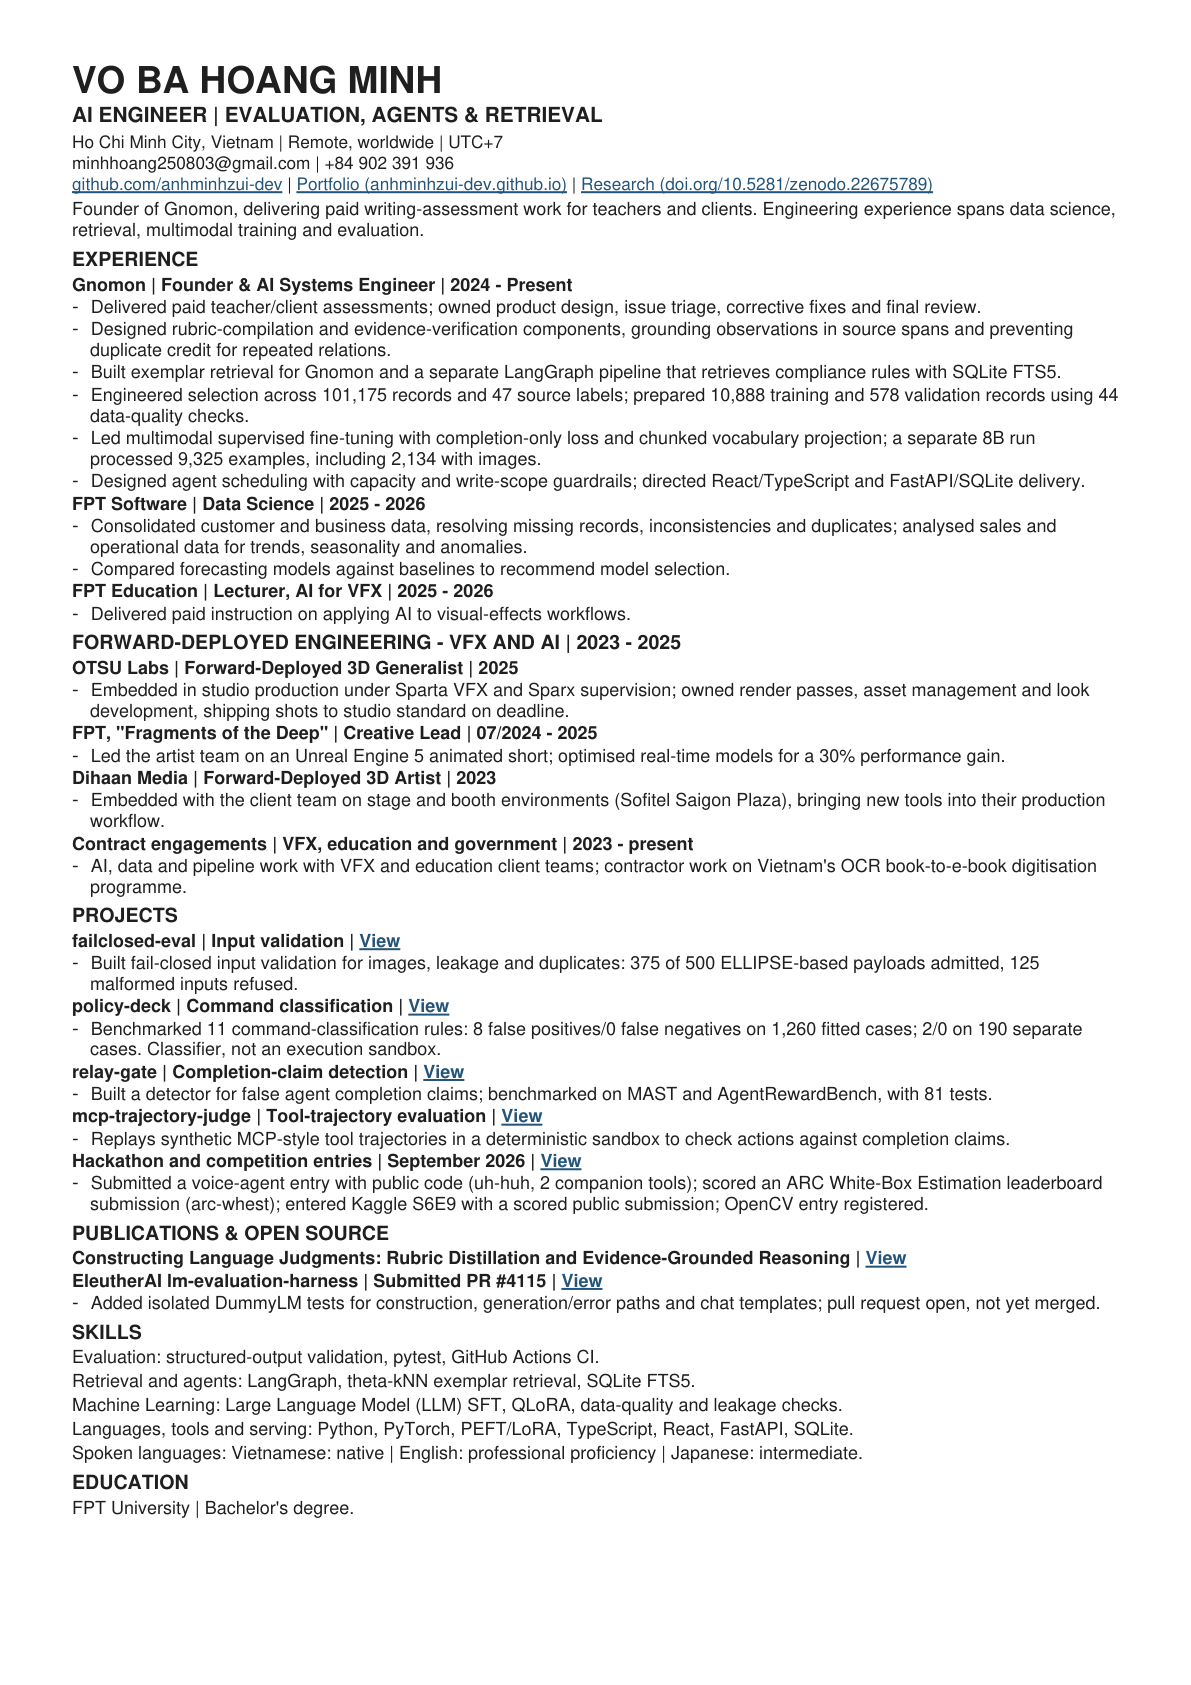
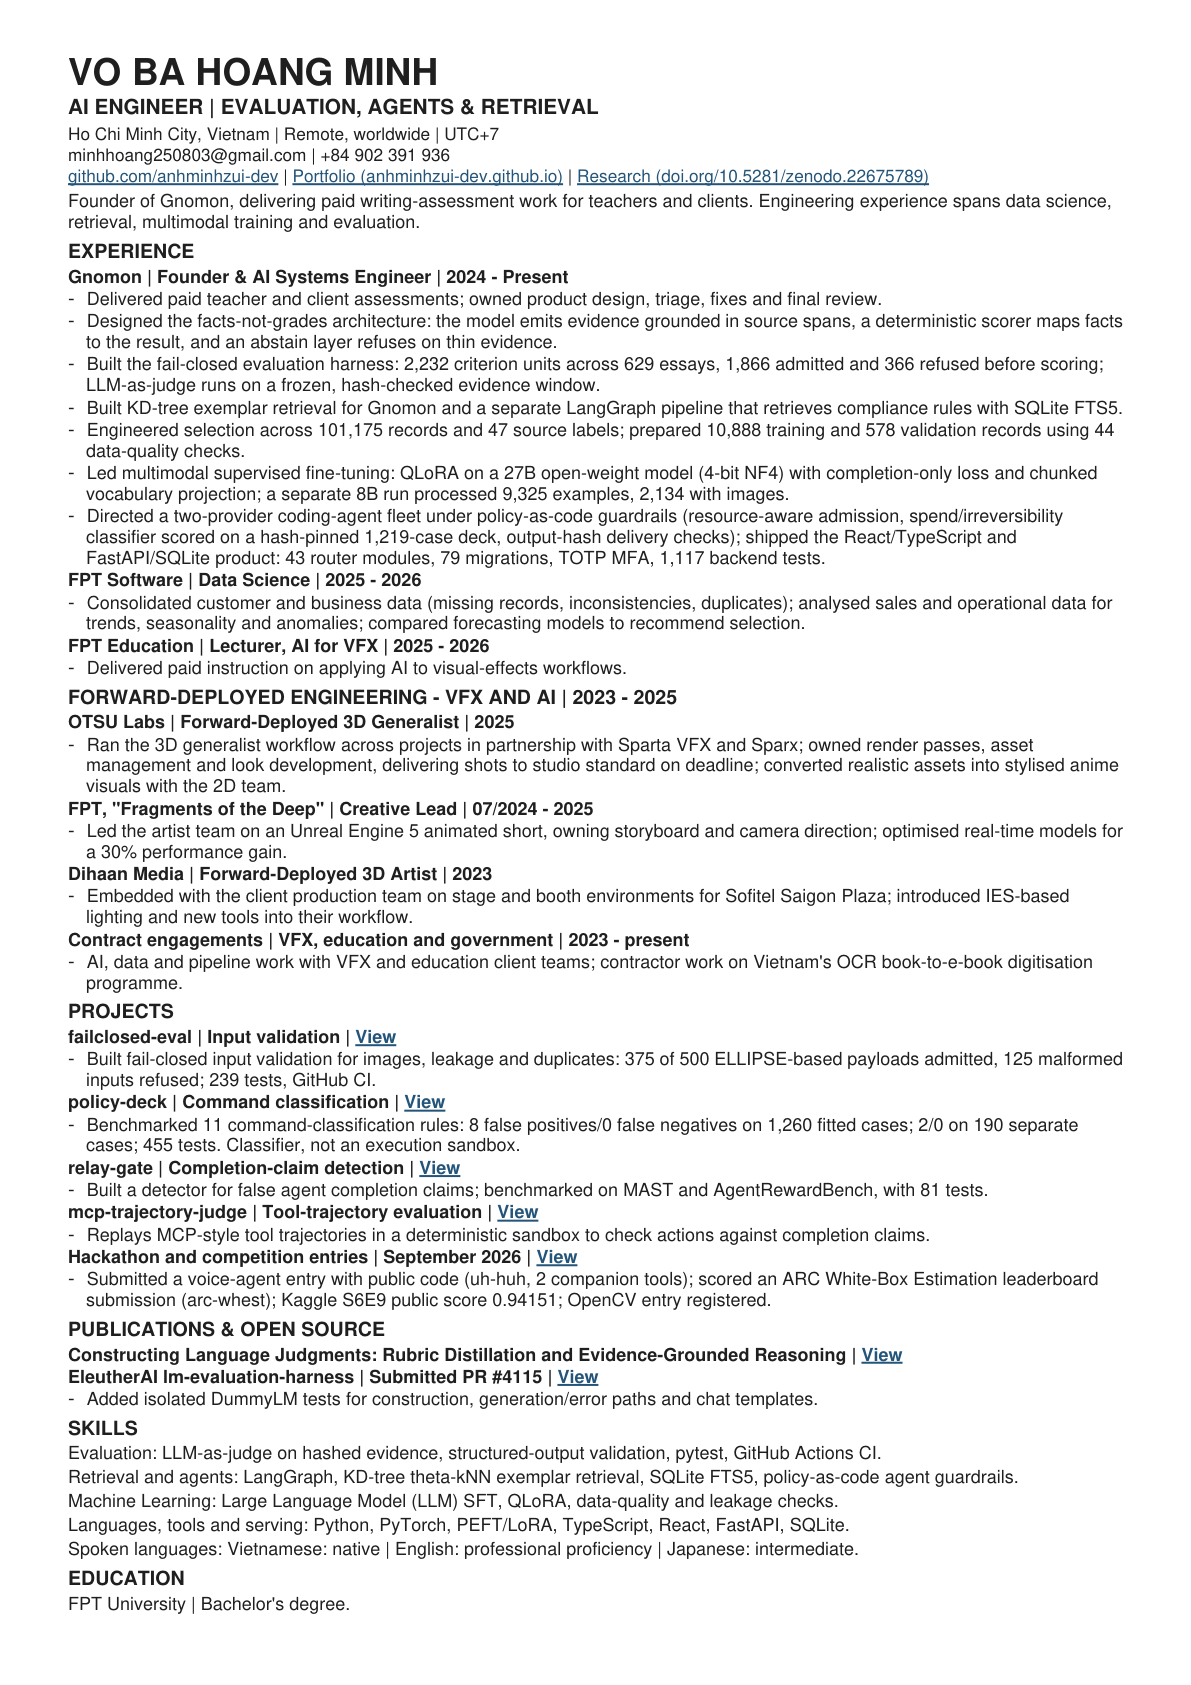
Publish CV r20 (sha256 723c589714531727)

Changed region(s): [[0.0621, 0.0309, 0.932, 0.9567]]

diff --git a/cv/build_cv.py b/cv/build_cv.py
@@ -1,0 +1,196 @@
+"""The CV builder of record. Lives in the repository so every shipped CV is a git tag.
+
+Usage:  python cv/build_cv.py <tag>     -> writes cv/build/<tag>/{pdf,html} (gitignored)
+Source of every claim: the private master resume M:/AGENT_VAULT/PORTFOLIO/cv/MASTER_CV.md
+(superset of every fact ever claimed, never pruned, never published). This file cuts the
+one-page version from it. Every shipped
+version: a row in cv/CHANGELOG.md, a tag `cv-r<N>`, the pdf at the repo root, in
+site/public and in docs, and the hash in site/public/cv_version.json. The gate
+tools/check_cv.py runs on every push and refuses a CV that drops a named section.
+Rendering: ReportLab, A4, one column, since the 13 Sep build.
+"""
+from html import escape
+from pathlib import Path
+import re
+import sys
+
+from pypdf import PdfReader
+from reportlab.lib import colors
+from reportlab.lib.pagesizes import A4
+from reportlab.lib.styles import ParagraphStyle
+from reportlab.platypus import KeepTogether, Paragraph, SimpleDocTemplate
+
+TAG = sys.argv[1] if len(sys.argv) > 1 else "untagged"
+OUT = Path(__file__).resolve().parent / "build" / TAG
+STEM = "Vo_Ba_Hoang_Minh_AI_Engineer_CV"
+NAME = "VO BA HOANG MINH"
+TITLE = "AI ENGINEER | EVALUATION, AGENTS & RETRIEVAL"
+PORTFOLIO = "https://anhminhzui-dev.github.io/anhminhzui-dev/"
+CONTACT = ('Ho Chi Minh City, Vietnam | Remote, worldwide | UTC+7<br/>'
+           '<a href="mailto:minhhoang250803@gmail.com">minhhoang250803@gmail.com</a> | '
+           '<a href="tel:+84902391936">+84 902 391 936</a><br/>'
+           '<a href="https://github.com/anhminhzui-dev" color="#24557a"><u>github.com/anhminhzui-dev</u></a> | '
+           '<a href="' + PORTFOLIO + '" color="#24557a"><u>Portfolio (anhminhzui-dev.github.io)</u></a> | '
+           '<a href="https://doi.org/10.5281/zenodo.22675789" color="#24557a"><u>Research (doi.org/10.5281/zenodo.22675789)</u></a>')
+INTRO = ("Founder of Gnomon, delivering paid writing-assessment work for teachers and clients. "
+         "Engineering experience spans data science, retrieval, multimodal training and evaluation.")
+REPORT = "https://doi.org/10.5281/zenodo.22675789"
+PR = "https://github.com/EleutherAI/lm-evaluation-harness/pull/4115"
+
+SECTIONS = [
+ ('EXPERIENCE',
+  [('Gnomon | Founder & AI Systems Engineer | 2024 - Present',
+    None,
+    ['Delivered paid teacher and client assessments; owned product design, triage, fixes and final review.',
+     'Designed the facts-not-grades architecture: the model emits evidence grounded in source spans, a '
+     'deterministic scorer maps facts to the result, and an abstain layer refuses on thin evidence.',
+     'Built the fail-closed evaluation harness: 2,232 criterion units across 629 essays, 1,866 admitted and '
+     '366 refused before scoring; LLM-as-judge runs on a frozen, hash-checked evidence window.',
+     'Built KD-tree exemplar retrieval for Gnomon and a separate LangGraph pipeline that retrieves compliance '
+     'rules with SQLite FTS5.',
+     'Engineered selection across 101,175 records and 47 source labels; prepared 10,888 training and 578 '
+     'validation records using 44 data-quality checks.',
+     'Led multimodal supervised fine-tuning: QLoRA on a 27B open-weight model (4-bit NF4) with completion-only '
+     'loss and chunked vocabulary projection; a separate 8B run processed 9,325 examples, 2,134 with images.',
+     'Directed a two-provider coding-agent fleet under policy-as-code guardrails (resource-aware admission, '
+     'spend/irreversibility classifier scored on a hash-pinned 1,219-case deck, output-hash delivery checks); '
+     'shipped the React/TypeScript and FastAPI/SQLite product: 43 router modules, 79 migrations, TOTP MFA, 1,117 backend tests.']),
+   ('FPT Software | Data Science | 2025 - 2026',
+    None,
+    ['Consolidated customer and business data (missing records, inconsistencies, duplicates); analysed sales and '
+     'operational data for trends, seasonality and anomalies; compared forecasting models to recommend selection.']),
+   ('FPT Education | Lecturer, AI for VFX | 2025 - 2026',
+    None,
+    ['Delivered paid instruction on applying AI to visual-effects workflows.'])]),
+ ('FORWARD-DEPLOYED ENGINEERING - VFX AND AI | 2023 - 2025',
+  [('OTSU Labs | Forward-Deployed 3D Generalist | 2025',
+    None,
+    ['Ran the 3D generalist workflow across projects in partnership with Sparta VFX and Sparx; owned render '
+     'passes, asset management and look development, delivering shots to studio standard on deadline; converted '
+     'realistic assets into stylised anime visuals with the 2D team.']),
+   ('FPT, "Fragments of the Deep" | Creative Lead | 07/2024 - 2025',
+    None,
+    ['Led the artist team on an Unreal Engine 5 animated short, owning storyboard and camera direction; '
+     'optimised real-time models for a 30% performance gain.']),
+   ('Dihaan Media | Forward-Deployed 3D Artist | 2023',
+    None,
+    ['Embedded with the client production team on stage and booth environments for Sofitel Saigon Plaza; '
+     'introduced IES-based lighting and new tools into their workflow.']),
+   ('Contract engagements | VFX, education and government | 2023 - present',
+    None,
+    ['AI, data and pipeline work with VFX and education client teams; contractor work on Vietnam\'s OCR '
+     'book-to-e-book digitisation programme.'])]),
+ ('PROJECTS',
+  [('failclosed-eval | Input validation',
+    'https://github.com/anhminhzui-dev/failclosed-eval',
+    ['Built fail-closed input validation for images, leakage and duplicates: 375 of 500 ELLIPSE-based '
+     'payloads admitted, 125 malformed inputs refused; 239 tests, GitHub CI.']),
+   ('policy-deck | Command classification',
+    'https://github.com/anhminhzui-dev/policy-deck',
+    ['Benchmarked 11 command-classification rules: 8 false positives/0 false negatives on 1,260 fitted '
+     'cases; 2/0 on 190 separate cases; 455 tests. Classifier, not an execution sandbox.']),
+   ('relay-gate | Completion-claim detection',
+    'https://github.com/anhminhzui-dev/relay-gate',
+    ['Built a detector for false agent completion claims; benchmarked on MAST and AgentRewardBench, with 81 tests.']),
+   ('mcp-trajectory-judge | Tool-trajectory evaluation',
+    'https://github.com/anhminhzui-dev/mcp-trajectory-judge',
+    ['Replays MCP-style tool trajectories in a deterministic sandbox to check actions against completion claims.']),
+   ('Hackathon and competition entries | September 2026',
+    'https://github.com/anhminhzui-dev',
+    ['Submitted a voice-agent entry with public code (uh-huh, 2 companion tools); scored an ARC White-Box '
+     'Estimation leaderboard submission (arc-whest); Kaggle S6E9 public score 0.94151; OpenCV entry '
+     'registered.'])]),
+ ('PUBLICATIONS & OPEN SOURCE',
+  [('Constructing Language Judgments: Rubric Distillation and Evidence-Grounded Reasoning',
+    'https://doi.org/10.5281/zenodo.22675789',
+    []),
+   ('EleutherAI lm-evaluation-harness | Submitted PR #4115',
+    'https://github.com/EleutherAI/lm-evaluation-harness/pull/4115',
+    ['Added isolated DummyLM tests for construction, generation/error paths and chat templates.'])]),
+ ('SKILLS',
+  [('',
+    None,
+    ['Evaluation: LLM-as-judge on hashed evidence, structured-output validation, pytest, GitHub Actions CI.',
+     'Retrieval and agents: LangGraph, KD-tree theta-kNN exemplar retrieval, SQLite FTS5, policy-as-code agent guardrails.']),
+   ('', None, ['Machine Learning: Large Language Model (LLM) SFT, QLoRA, data-quality and leakage checks.']),
+   ('',
+    None,
+    ['Languages, tools and serving: Python, PyTorch, PEFT/LoRA, TypeScript, React, FastAPI, SQLite.',
+     'Spoken languages: Vietnamese: native | English: professional proficiency | Japanese: intermediate.'])]),
+ ('EDUCATION', [('', None, ["FPT University | Bachelor's degree."])])]
+
+
+def build():
+    all_texts = [t for _, items in SECTIONS for _, _, ts in items for t in ts]
+    banned = re.compile(r"(?i)MAE|accuracy|agreement|correlation|\bband\b|Co-Authored|Claude|GPT|ChatGPT")
+    for t in all_texts:
+        assert not banned.search(t), f"BANNED TERM in bullet: {t[:80]}"
+    assert "FPT University | Bachelor's degree." in " ".join(all_texts), "degree line drift"
+    assert "field of study" not in " ".join(all_texts).lower()
+
+    OUT.mkdir(parents=True, exist_ok=True)
+    ink = colors.HexColor("#202020")
+    base = dict(fontName="Helvetica", fontSize=9.0, leading=10.4, textColor=ink)
+    styles = {
+        "body": ParagraphStyle("Body", **base, spaceAfter=1.6),
+        "bullet": ParagraphStyle("Bullet", **base, leftIndent=9, bulletIndent=0, spaceAfter=0.8),
+        "name": ParagraphStyle("Name", fontName="Helvetica-Bold", fontSize=18.5, leading=20.5, textColor=ink, spaceAfter=2),
+        "title": ParagraphStyle("Title", fontName="Helvetica-Bold", fontSize=10.4, leading=12.6, textColor=ink, spaceAfter=2.5),
+        "contact": ParagraphStyle("Contact", **{**base, "fontSize": 8.6, "leading": 10.4}, spaceAfter=1.8),
+        "section": ParagraphStyle("Section", fontName="Helvetica-Bold", fontSize=9.8, leading=11.4, textColor=ink, spaceBefore=3.6, spaceAfter=1.8, keepWithNext=True),
+        "item": ParagraphStyle("Item", fontName="Helvetica-Bold", fontSize=9.0, leading=10.4, textColor=ink, spaceBefore=0.7, spaceAfter=0.7, keepWithNext=True),
+    }
+    story = [Paragraph(NAME, styles["name"]), Paragraph(escape(TITLE), styles["title"]), Paragraph(CONTACT, styles["contact"]), Paragraph(escape(INTRO), styles["body"])]
+    html = [f"<h1>{NAME}</h1><p class='title'>{escape(TITLE)}</p><p class='contact'>{CONTACT}</p><p>{escape(INTRO)}</p>"]
+    for heading, items in SECTIONS:
+        story.append(Paragraph(escape(heading), styles["section"]))
+        html.append(f"<section><h2>{escape(heading)}</h2>")
+        for label, url, texts in items:
+            label_html = escape(label)
+            if url:
+                label_html += f' | <a href="{escape(url, quote=True)}" color="#24557a"><u>View</u></a>'
+            block = [Paragraph(label_html, styles["item"])] if label else []
+            html.append("<article>" + (f"<h3>{label_html}</h3><ul>" if label else ""))
+            for value in texts:
+                block.append(Paragraph(escape(value), styles["bullet" if label else "body"], bulletText="-" if label else None))
+                tag = "li" if label else "p"
+                html.append(f"<{tag}>{escape(value)}</{tag}>")
+            html.append(("</ul>" if label else "") + "</article>")
+            story.append(KeepTogether(block))
+        html.append("</section>")
+    pdf = OUT / f"{STEM}.pdf"
+    SimpleDocTemplate(str(pdf), pagesize=A4, leftMargin=28, rightMargin=28, topMargin=18, bottomMargin=18,
+                       title=f"{NAME} | {TITLE}", author="Vo Ba Hoang Minh", pageCompression=1).build(story)
+
+    css = ("@page{size:A4;margin:12mm 12.5mm}*{box-sizing:border-box}body{margin:0;background:#edf0f3;"
+           "color:#202020;font:13px/1.24 Arial,Helvetica,sans-serif}main{max-width:794px;margin:24px auto;"
+           "padding:40px 46px;background:white}h1{font-size:26px;line-height:1.15;margin:0 0 4px}"
+           ".title{font-size:14.2px;font-weight:700;margin:0 0 5px}.contact{font-size:11.8px;line-height:1.26;"
+           "margin-bottom:8px}h2{font-size:13px;margin:9px 0 4.5px;border-bottom:1px solid #202020;"
+           "padding-bottom:1px}h3{font-size:13px;margin:3.5px 0}p{margin:0 0 3.5px}ul{padding-left:12px;"
+           "margin:0}li{margin:0 0 3.5px}article{break-inside:avoid}a{color:#24557a;text-decoration:underline}"
+           "a:focus-visible{outline:2px solid #24557a;outline-offset:3px}@media(max-width:600px){main{margin:0;"
+           "padding:24px 20px}.contact{overflow-wrap:anywhere}}@media print{body{background:white;font-size:9.4pt}"
+           "main{margin:0;padding:0}h1{font-size:19pt}.title{font-size:10.6pt}h2,h3{font-size:9.4pt}"
+           ".contact{font-size:8.8pt}}")
+    page = ("<!doctype html><html lang='en'><head><meta charset='utf-8'>"
+            "<meta name='viewport' content='width=device-width,initial-scale=1'>"
+            "<title>Vo Ba Hoang Minh | AI Resume</title><style>" + css + "</style></head><body><main>"
+            + "".join(html) + "</main></body></html>")
+    html_path = OUT / f"{STEM}.html"
+    html_path.write_text(page, encoding="utf-8")
+
+    reader = PdfReader(pdf)
+    text = " ".join(" ".join(p.extract_text() or "" for p in reader.pages).split())
+    npages = len(reader.pages)
+    print(f"PAGES={npages}")
+    assert all(" ".join(t.split()) in text for t in all_texts), "Content lost in PDF"
+    expected = {PORTFOLIO, REPORT, PR, "https://github.com/anhminhzui-dev", "mailto:minhhoang250803@gmail.com", "tel:+84902391936"} | {url for _, items in SECTIONS for _, url, _ in items if url}
+    links = {a.get_object().get("/A", {}).get("/URI") for p in reader.pages for a in p.get("/Annots", []) or []}
+    assert expected <= links, f"Lost clickable proof: {expected - links}"
+    assert not any("127.0.0.1" in str(link) or "localhost" in str(link) for link in links)
+    print(f"BUILD_OK pdf={pdf} html={html_path} pages={npages} words={len(text.split())} links={len(expected)}")
+
+
+if __name__ == "__main__":
+    build()

diff --git a/tools/check_cv.py b/tools/check_cv.py
@@ -41,6 +41,17 @@ REQUIRED_IN_CV = [
     "Hackathon and competition entries",
     "Kaggle",
     "lm-evaluation-harness",
+    # r20 restorations (2026-09-18): the facts the ledger found dropped between r15 and the 13 Sep rebuild
+    "facts-not-grades",
+    "2,232 criterion units",
+    "27B",
+    "policy-as-code",
+    "1,117 backend tests",
+    "239 tests",
+    "455 tests",
+    "0.94151",
+    "Sparta VFX",
+    "Sofitel Saigon Plaza",
     "FPT University | Bachelor's degree.",
 ]
 # Employers the site timeline must also carry (the page and the CV never disagree).

diff --git a/cv/CHANGELOG.md b/cv/CHANGELOG.md
@@ -1,0 +1,43 @@
+# CV changelog
+
+Format: [Keep a Changelog](https://keepachangelog.com/). One entry per shipped version; each shipped version is a git
+tag `cv-r<N>` on the commit that published it. Working builds that never shipped get no tag and no entry. The full
+fact inventory every version is cut from is `cv/MASTER_CV.md`; the audit trail of every earlier file is
+`M:/AGENT_VAULT/PORTFOLIO/cv/CV_REGISTER.md` (private).
+
+## cv-r20 — 2026-09-18 — audited against every earlier version (20 files, 107 facts)
+### Added (restored from earlier versions; each corroborated in two or more files)
+- Gnomon: facts-not-grades architecture; fail-closed evaluation harness counts (2,232 criterion units, 629 essays,
+  1,866 admitted, 366 refused); LLM-as-judge on a frozen, hash-checked evidence window; KD-tree exemplar retrieval;
+  QLoRA on a 27B open-weight model (4-bit NF4); two-provider coding-agent fleet under policy-as-code guardrails
+  (1,219-case deck); product scale (43 router modules, 79 migrations, TOTP MFA, 1,117 backend tests).
+- Projects: 239 tests and CI on failclosed-eval; 455 tests on policy-deck; Kaggle S6E9 public score 0.94151.
+- VFX: anime-conversion work with the 2D team; IES-based lighting; storyboard and camera direction (both had
+  slipped out between r18 and r19).
+- Skills: LLM-as-judge; KD-tree; policy-as-code agent guardrails.
+### Changed
+- Peer-level wording: "in partnership with Sparta VFX and Sparx" replaces "under supervision"; "shipped" replaces
+  "directed delivery"; the open pull request is stated without "not yet merged".
+- FPT Software condensed to one line; margins tightened to hold one page (705 words).
+### Not used, by rule
+- Single-source claims (one contract name), degree field, "English: Native", any accuracy or hold figure, vendor
+  names for the agent fleet. Full reasoning in the private master CV.
+
+## cv-r19 — 2026-09-18 — commit 3c8a3de — sha256 81f0d94991e68b9a
+### Changed
+- Forward-deployed VFX section condensed to one line per role (OTSU Labs 2025, FPT "Fragments of the Deep"
+  07/2024–2025, Dihaan Media 2023, contract engagements 2023–present).
+### Kept
+- Hackathon and competition line (uh-huh, ARC White-Box, Kaggle S6E9, OpenCV).
+
+## cv-r18 — 2026-09-18 — commit 4fe114c — sha256 56550c4df5b9a4df (superseded same day, no tag)
+### Added
+- Hackathon and competition line restored; it had been dropped without record in the 13 Sep rebuild.
+
+## cv-r17 — 2026-09-18 — commit c457c1b — sha256 8422de18aee5b639 (superseded same day, no tag)
+### Added
+- Forward-deployed engineering, VFX and AI, 2023–2025: Dihaan Media, FPT "Fragments of the Deep", OTSU Labs.
+
+## Before r17
+Twelve earlier files across three numbering lines (7–13 Sep). None are tagged. Their facts are inventoried in
+`cv/MASTER_CV.md`; their hashes and the reason the numbers collided are in the private register.
